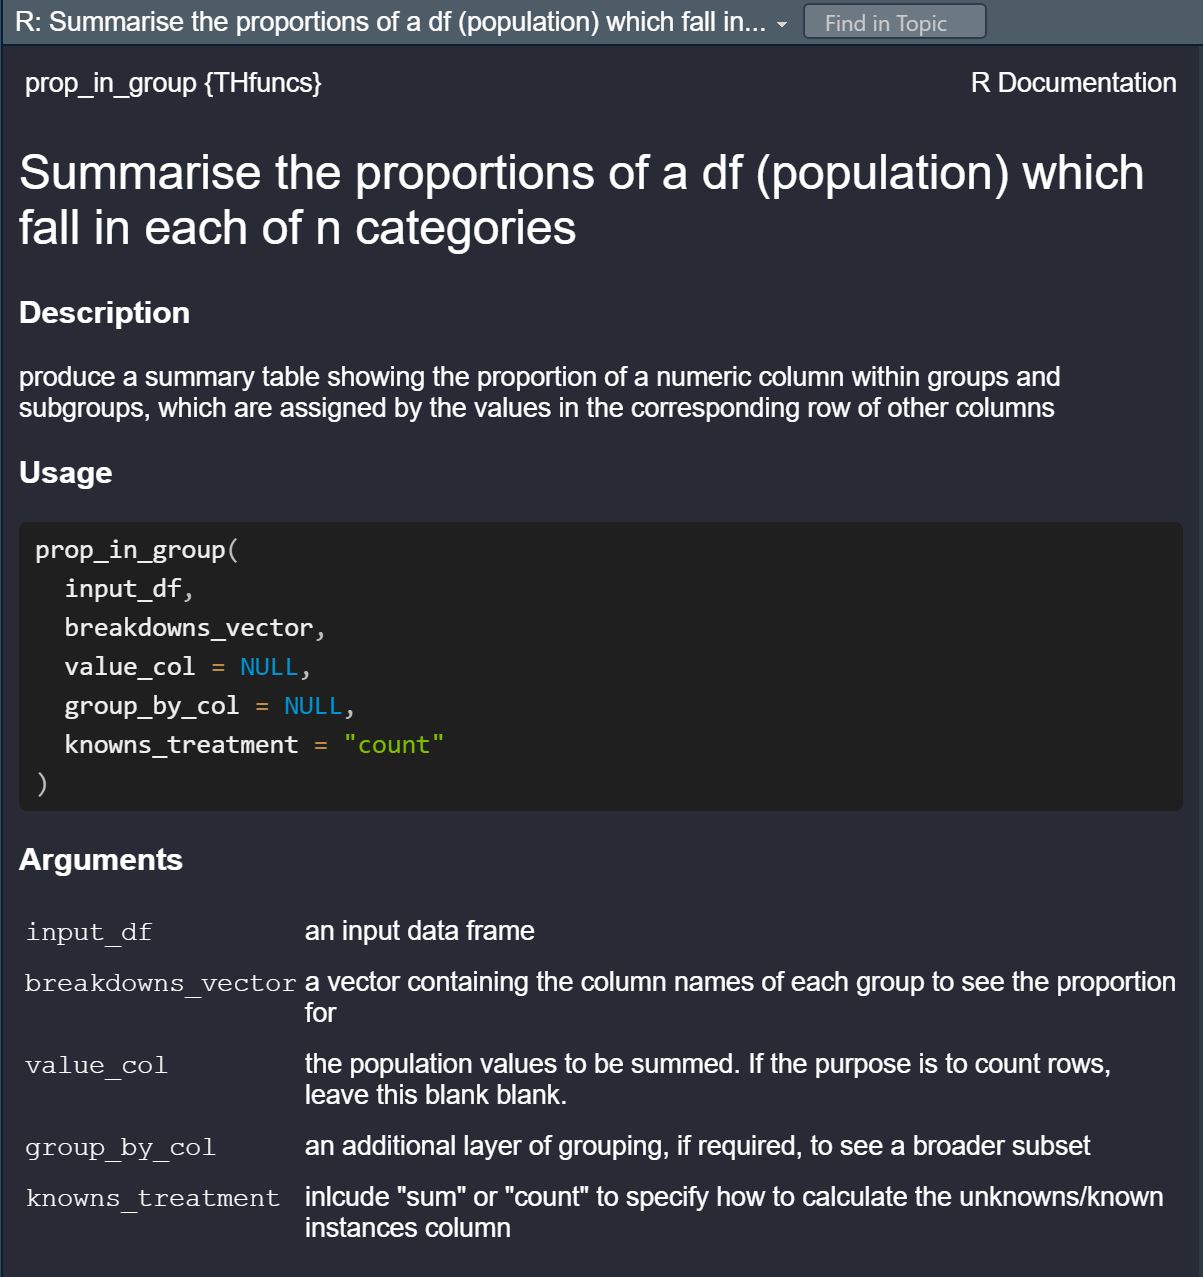
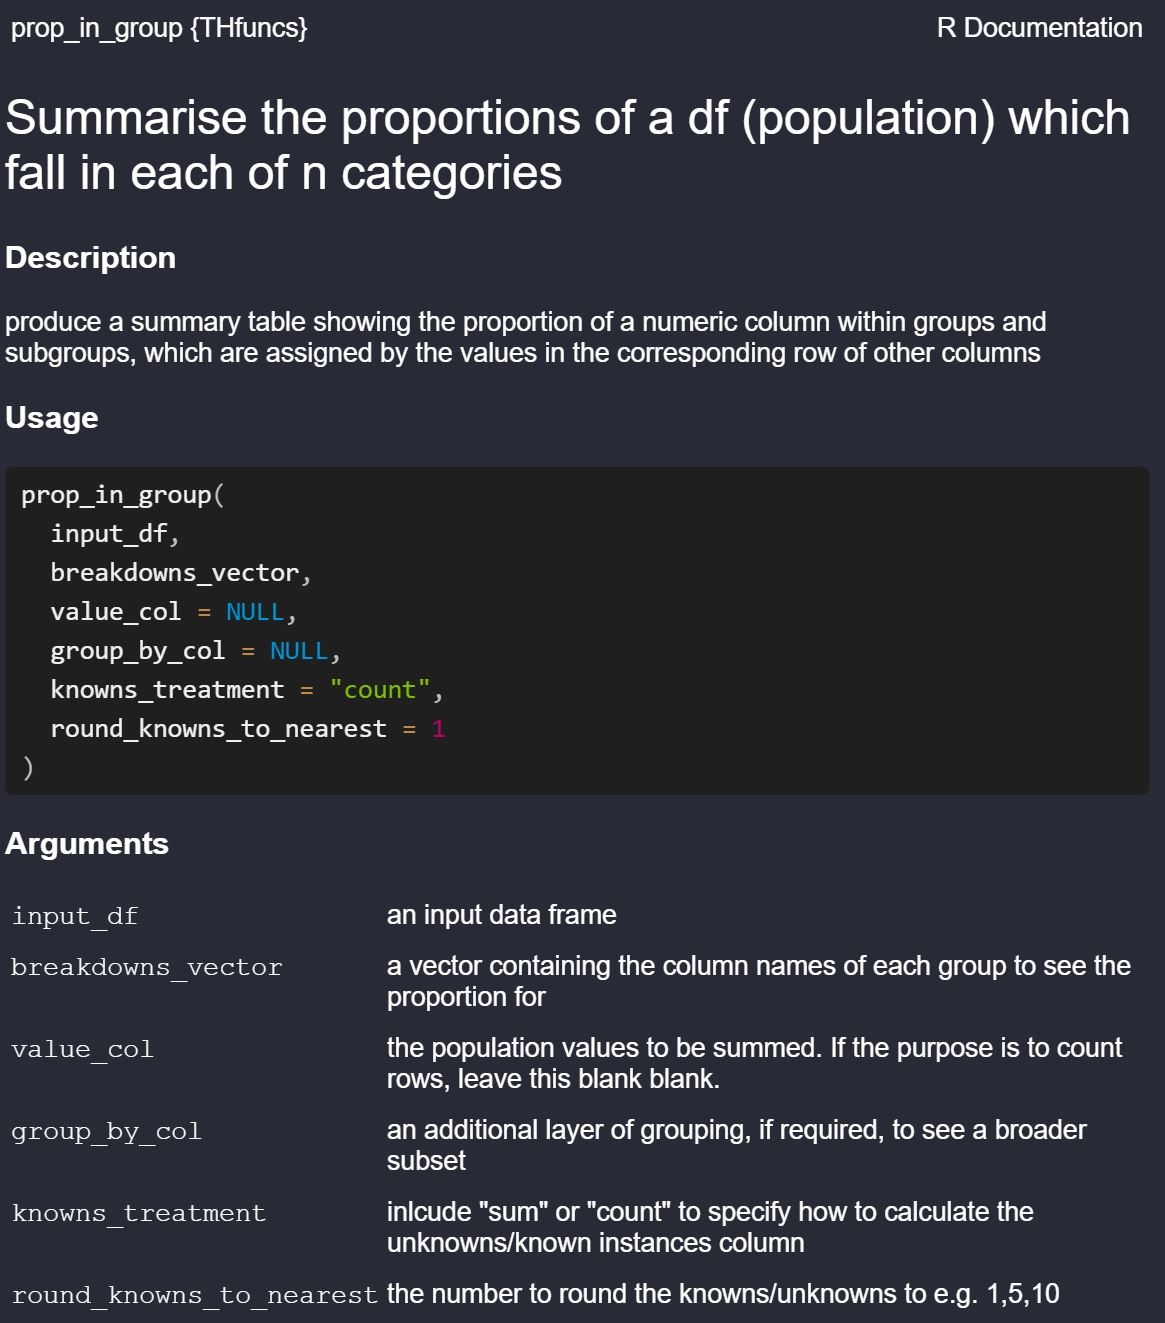
uploading rounding example

Changed region(s): [[0.0, 0.0, 1.0, 1.0]]

diff --git a/README.md b/README.md
@@ -3,13 +3,13 @@
 
 # Purpose
 
-The THfuncs R packages house functions created to help with data
+The THfuncs R package contains functions created to help with data
 analysis, data manipulation and other functionality in R.
 
 The first (and currently only function) contained in this package is
 `prop_in_group()`. This function transforms tidy data into a grouped
 proportion table, using columns in the data. It can be generalised to
-summarise wide data frames, as shown in the example below.
+summarise wide data frames, as shown in the examples below.
 
 # Installation
 
@@ -122,6 +122,32 @@ prop_in_group(input_df = universities,
 | TEF_1819        | Gold           |       0.40 |              9 |        0 |
 | TEF_1819        | No TEF         |       0.30 |              9 |        0 |
 | TEF_1819        | Silver         |       0.31 |              9 |        0 |
+
+### Example 2c. - Rounded knowns
+
+Now we change the input parameter `round_knowns_to_nearest` from 1 (the
+default) to 5.
+
+``` r
+
+prop_in_group(input_df = universities,
+              breakdowns_vector = c("Country", "Ofs_Tariff_1920", "TEF_1819"),
+              value_col = `Student numbers`,
+              knowns_treatment = "count",
+              round_knowns_to_nearest = 5)
+```
+
+| Grouping        | Subgroup       | Proportion | Known in Group | Unknowns |
+|:----------------|:---------------|-----------:|---------------:|---------:|
+| Country         | England        |       0.57 |             10 |        0 |
+| Country         | Scotland       |       0.30 |             10 |        0 |
+| Country         | Wales          |       0.13 |             10 |        0 |
+| Ofs_Tariff_1920 | High Tariff    |       0.65 |              5 |        5 |
+| Ofs_Tariff_1920 | Low Tariff     |       0.22 |              5 |        5 |
+| Ofs_Tariff_1920 | Specialist HEI |       0.13 |              5 |        5 |
+| TEF_1819        | Gold           |       0.40 |             10 |        0 |
+| TEF_1819        | No TEF         |       0.30 |             10 |        0 |
+| TEF_1819        | Silver         |       0.31 |             10 |        0 |
 
 ### Example 3. - Dual breakdowns
 
